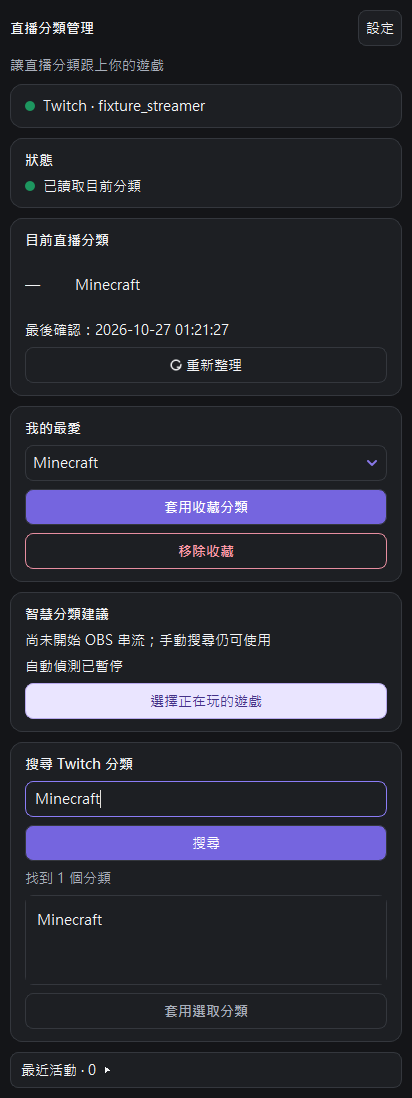
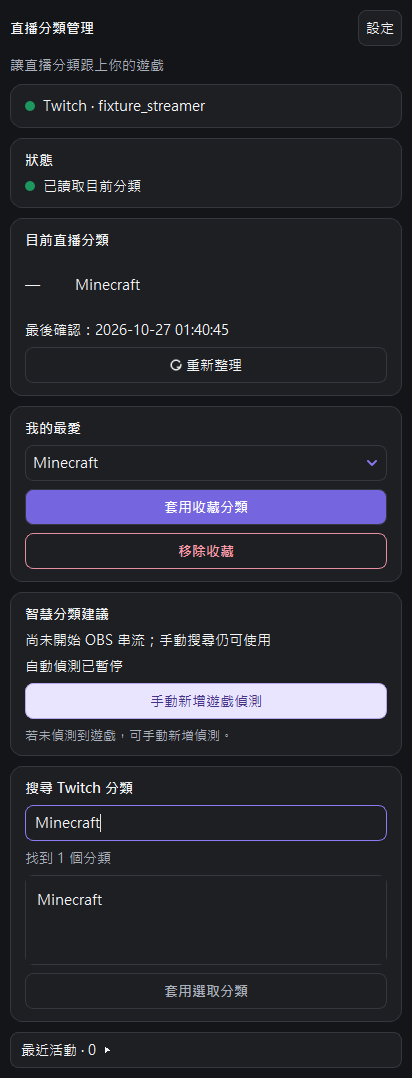
Simplify search and add explicit login and logout feedback for local 0.5.6

diff --git a/src/ui/dock.cpp b/src/ui/dock.cpp
@@ -111,8 +111,8 @@ static QString themeSheet(const Settings &config)
         "QSpinBox::up-button {subcontrol-position:top right;} QSpinBox::down-button {subcontrol-position:bottom right;}"
         "QSpinBox::up-arrow {image:url(:/tca/up.svg);width:10px;height:10px;} QSpinBox::down-arrow {image:url(:/tca/down.svg);width:10px;height:10px;}"
         "QPushButton:disabled {color:%8;} QPushButton[primary=true] {background:#7565DF;color:white;font-weight:600;}"
-        "QPushButton[primary=true]:disabled {background:%3;color:%8;} QPushButton[empty=true] {color:%8;}"
-        "QPushButton#categorySearchButton {font-weight:400;}"
+        "QPushButton[primary=true]:disabled {background:%3;color:%8;}"
+        "QLabel#manualDetectionHint {color:%8;font-size:%11px;}"
         "QPushButton[secondary=true] {background:#EAE5FF;color:#443287;border-color:#B8A9EE;}"
         "QPushButton[danger=true] {background:%3;color:%9;border-color:%10;font-weight:600;}"
         "QPushButton[secondary=true]:disabled,QPushButton[danger=true]:disabled {background:%3;color:%8;border-color:%4;}"
@@ -130,7 +130,7 @@ static QString themeSheet(const Settings &config)
         "QScrollBar:vertical {background:transparent;width:8px;margin:0;} QScrollBar::handle:vertical {background:%4;border-radius:4px;min-height:24px;}"
         "QScrollBar::add-line:vertical,QScrollBar::sub-line:vertical {height:0;} QScrollBar::add-page:vertical,QScrollBar::sub-page:vertical {background:transparent;}")
         .arg(text, bg, panel, edge).arg(config.fontSize).arg(family).arg(config.fontSize + 3).arg(dark ? "#A9AFBB" : "#606978")
-        .arg(dark ? "#FF9AA8" : "#A5233A").arg(dark ? "#E78EA0" : "#C87580");
+        .arg(dark ? "#FF9AA8" : "#A5233A").arg(dark ? "#E78EA0" : "#C87580").arg(std::max(12, config.fontSize - 1));
 }
 Dock::Dock(QString settingsDirectory, QWidget *parent, QNetworkAccessManager *transport)
     : QWidget(parent), directory(std::move(settingsDirectory)), settingsPath(QDir(directory).filePath("settings.json")), client(this, transport, !transport), updater(UpdateRepository, PluginVersion, this), images(this)
@@ -188,7 +188,6 @@ Dock::Dock(QString settingsDirectory, QWidget *parent, QNetworkAccessManager *tr
     });
     auto *search = card(layout, "搜尋 Twitch 分類"); search->parentWidget()->setObjectName("manualSearchCard"); searchInput = new QLineEdit; searchInput->setObjectName("categorySearchInput"); searchInput->setPlaceholderText("輸入遊戲或分類名稱…"); searchInput->setMaxLength(200);
     searchInput->setAccessibleName("搜尋遊戲或分類"); search->addWidget(searchInput);
-    searchButton = button("搜尋"); searchButton->setObjectName("categorySearchButton"); search->addWidget(searchButton);
     searchHint = label("連接 Twitch 後即可搜尋與更新分類"); searchHint->setProperty("role", "muted"); search->addWidget(searchHint);
     searchList = new QListWidget; searchList->setObjectName("searchResults"); searchList->setWordWrap(true); searchList->setFixedHeight(90); searchList->setIconSize(QSize(42, 56)); search->addWidget(searchList);
     applyButton = button("套用選取分類"); applyButton->setProperty("primary", true); search->addWidget(applyButton);
@@ -221,27 +220,27 @@ Dock::Dock(QString settingsDirectory, QWidget *parent, QNetworkAccessManager *tr
         }
         if (!client.connected() || (searching && searchQuery == searchInput->text().trimmed())) return;
         searchQuery = searchInput->text().trimmed(); searchCategories.clear(); searchList->clear(); cursor.clear(); moreButton->hide();
-        searching = true; updateSearch(); searchHint->setText("正在搜尋：" + searchQuery);
-        animate(searchButton); client.search(searchQuery);
+        searching = true; searchHint->setText("正在搜尋：" + searchQuery);
+        animate(searchHint); client.search(searchQuery);
     };
     connect(&searchTimer, &QTimer::timeout, this, doSearch);
-    connect(searchButton, &QPushButton::clicked, this, doSearch);
     connect(searchInput, &QLineEdit::returnPressed, this, doSearch);
     connect(searchInput, &QLineEdit::textChanged, this, [this] {
-        updateSearch(); searchTimer.stop();
+        searchTimer.stop();
         if (searchInput->text().trimmed().isEmpty()) {
             searching = false; searchQuery.clear(); searchCategories.clear(); searchList->clear(); cursor.clear(); moreButton->hide();
             updateAccount(); searchHint->setText("輸入遊戲或分類名稱…");
         } else if (client.connected()) searchTimer.start();
     });
-    connect(moreButton, &QPushButton::clicked, this, [this] { searching = true; updateSearch(); moreButton->setEnabled(false); client.search(searchQuery, cursor); });
+    connect(moreButton, &QPushButton::clicked, this, [this] { searching = true; moreButton->setEnabled(false); client.search(searchQuery, cursor); });
     connect(applyButton, &QPushButton::clicked, this, &Dock::applySelected);
     connect(searchList, &QListWidget::currentRowChanged, this, [this] { updateAccount(); });
     connect(mappingButton, &QPushButton::clicked, this, &Dock::pickGame);
     auto *suggestion = card(layout, "智慧分類建議"); suggestion->parentWidget()->setObjectName("suggestionCard"); suggestionLabel = label("尚無遊戲候選；可按「我的遊戲」新增並記住"); suggestion->addWidget(suggestionLabel);
-    unknownLabel = label("未辨識的視窗只作參考，不會被當成遊戲。可按下方按鈕選取遊戲。"); unknownLabel->setObjectName("unknownRecognitionStatus"); suggestion->addWidget(unknownLabel);
-    reviewUnknownButton = button("選擇正在玩的遊戲"); reviewUnknownButton->setObjectName("reviewUnknownGame"); reviewUnknownButton->setProperty("secondary", true); reviewUnknownButton->setEnabled(true); suggestion->addWidget(reviewUnknownButton);
+    unknownLabel = label("未辨識的視窗只作參考，不會被當成遊戲。"); unknownLabel->setObjectName("unknownRecognitionStatus"); suggestion->addWidget(unknownLabel);
+    reviewUnknownButton = button("手動新增遊戲偵測"); reviewUnknownButton->setObjectName("reviewUnknownGame"); reviewUnknownButton->setProperty("secondary", true); reviewUnknownButton->setEnabled(true); suggestion->addWidget(reviewUnknownButton);
     connect(reviewUnknownButton, &QPushButton::clicked, this, &Dock::pickGame);
+    auto *manualHint = label("若未偵測到遊戲，可手動新增偵測。"); manualHint->setObjectName("manualDetectionHint"); manualHint->setProperty("role", "muted"); suggestion->addWidget(manualHint);
     suggestionChoice = new QComboBox; suggestion->addWidget(suggestionChoice);
     suggestionApply = button("套用建議"); suggestion->addWidget(suggestionApply); connect(suggestionApply, &QPushButton::clicked, this, &Dock::applySuggestion);
     suggestionApply->setProperty("primary", true);
@@ -272,7 +271,7 @@ Dock::Dock(QString settingsDirectory, QWidget *parent, QNetworkAccessManager *tr
     connect(&client, &Client::accountChanged, this, [this] {
         lookupPending = false; lookupAttempted.clear();
         searchTimer.stop();
-        searchHint->setText(client.connected() ? "輸入名稱即可搜尋，也可按搜尋或 Enter" : "連接 Twitch 後即可搜尋與更新分類");
+        searchHint->setText(client.connected() ? "輸入名稱即可搜尋，也可按 Enter 立即查詢" : "連接 Twitch 後即可搜尋與更新分類");
     });
     connect(&client, &Client::accountChanged, this, &Dock::updateAccount);
     connect(&client, &Client::status, this, [this](const QString &text, Client::StatusLevel level) {
@@ -282,7 +281,7 @@ Dock::Dock(QString settingsDirectory, QWidget *parent, QNetworkAccessManager *tr
     connect(&client, &Client::activity, this, &Dock::addActivity);
     connect(&client, &Client::searchFinished, this, [this] {
         if (searching && !searchInput->text().trimmed().isEmpty()) searchHint->setText("搜尋已結束，請查看結果或上方狀態");
-        searching = false; updateSearch(); moreButton->setEnabled(true);
+        searching = false; moreButton->setEnabled(true);
     });
     connect(&client, &Client::results, this, [this](const QVector<Category> &list, const QString &next) {
         if (searchInput->text().trimmed().isEmpty() || searchInput->text().trimmed() != searchQuery) return;
@@ -327,15 +326,6 @@ void Dock::setStatus(const QString &message, Client::StatusLevel level)
     const QString meaning = level == Client::StatusLevel::Success ? "正常" : level == Client::StatusLevel::Error ? "錯誤" : level == Client::StatusLevel::Progress ? "處理中" : "需注意";
     indicator(statusIndicator, state, meaning + "：" + message);
     if (statusLabel->text() != message) { statusLabel->setText(message); animate(statusLabel); }
-}
-void Dock::updateSearch()
-{
-    const bool empty = searchInput->text().trimmed().isEmpty();
-    searchButton->setProperty("primary", !empty); searchButton->setProperty("empty", empty);
-    searchButton->setText(searching ? "搜尋中…" : "搜尋");
-    searchButton->setEnabled(client.connected() && !searching);
-    searchButton->setToolTip(empty ? "請先輸入遊戲或分類名稱" : "搜尋輸入的名稱（也可以按 Enter）");
-    searchButton->style()->unpolish(searchButton); searchButton->style()->polish(searchButton); searchButton->update();
 }
 void Dock::updateRefresh()
 {
@@ -403,7 +393,7 @@ void Dock::updateAccount()
     favoriteAdd->setVisible(selected >= 0 && selected < searchCategories.size());
     favoriteAdd->setEnabled(!saved);
     favoriteAdd->setText(saved ? "已加入我的最愛" : "加入我的最愛");
-    updateSearch(); updateRefresh();
+    updateRefresh();
     searchInput->setEnabled(client.connected());
     currentArt->setVisible(client.connected());
     searchList->setVisible(client.connected() && !searchCategories.isEmpty());
@@ -496,7 +486,7 @@ void Dock::updateUnknown(const Processes &processes)
         if (!known) pendingWindow = w;
     }
     reviewUnknownButton->setEnabled(true);
-    unknownLabel->setText(pendingWindow.executable.isEmpty() ? "開啟遊戲後按「選擇正在玩的遊戲」，確認一次即可記住。" : "未確認視窗（不影響聊天倒數）：" + pendingWindow.title.left(120));
+    unknownLabel->setText(pendingWindow.executable.isEmpty() ? "開啟遊戲後按「手動新增遊戲偵測」，確認一次即可記住。" : "未確認視窗（不影響聊天倒數）：" + pendingWindow.title.left(120));
 }
 bool Dock::rememberRecognition(const RecognitionRule &rule)
 {
@@ -541,7 +531,7 @@ void Dock::reviewUnknown()
     connect(search, &QPushButton::clicked, &dialog, [&] {
         if (!client.connected() || !config.consented()) { QMessageBox::information(&dialog, "搜尋", "請先完成同意並連接 Twitch；既有收藏可離線確認。"); return; }
         if (gameName->text().trimmed().isEmpty()) { gameName->setFocus(); return; }
-        searchQuery = gameName->text().trimmed(); searchInput->setText(searchQuery); searchTimer.stop(); searching = true; updateSearch(); search->setEnabled(false); lookupStatus->setText("正在向 Twitch 搜尋…"); client.search(searchQuery);
+        searchQuery = gameName->text().trimmed(); searchInput->setText(searchQuery); searchTimer.stop(); searching = true; search->setEnabled(false); lookupStatus->setText("正在向 Twitch 搜尋…"); client.search(searchQuery);
     });
     auto *advancedToggle = button("進階辨識資訊 ▸"); advancedToggle->setCheckable(true); layout->addWidget(advancedToggle);
     auto *advanced = new QWidget; auto *scope = new QVBoxLayout(advanced); layout->addWidget(advanced); advanced->hide(); connect(advancedToggle, &QPushButton::toggled, advanced, &QWidget::setVisible);
@@ -568,7 +558,7 @@ void Dock::reviewUnknown()
 void Dock::pickGame()
 {
     if (stopped) return;
-    QDialog dialog(this); dialog.setWindowTitle("選擇正在玩的遊戲"); dialog.resize(560, 420); dialog.setStyleSheet(themeSheet(config));
+    QDialog dialog(this); dialog.setWindowTitle("手動新增遊戲偵測"); dialog.resize(560, 420); dialog.setStyleSheet(themeSheet(config));
     auto *layout = new QVBoxLayout(&dialog); layout->addWidget(label("先開啟遊戲，再從視窗清單選取。只有你確認後才會記住，不需填寫程序名稱。"));
     auto *list = new QListWidget; list->setObjectName("gameWindows"); layout->addWidget(list);
     auto *status = label("正在讀取本機可見視窗…"); layout->addWidget(status);
@@ -825,11 +815,22 @@ void Dock::login()
     if (settingsReadError) { recoverSettings(); return; }
     if (!config.consented() && !confirmUpdatedDocuments()) return;
     if (effectiveClientId().isEmpty()) { setStatus("此測試版本尚未配置發行者登入服務，請使用已配置的發行版", Client::StatusLevel::Error); return; }
-    QDialog dialog(this); dialog.setStyleSheet(themeSheet(config)); dialog.setWindowTitle("連接 Twitch 帳號"); dialog.resize(460, 280);
+    QDialog dialog(this); dialog.setObjectName("twitchLoginDialog"); dialog.setStyleSheet(themeSheet(config)); dialog.setWindowTitle("連接 Twitch 帳號"); dialog.resize(460, 320);
     auto *layout = new QVBoxLayout(&dialog); auto *instructions = label("正在連接 Twitch…"); layout->addWidget(instructions);
     auto *progress = label("授權只在 Twitch 官方網站進行，密碼不會交給外掛。"); progress->setProperty("role", "muted"); layout->addWidget(progress);
     auto *open = button("開啟 Twitch 官方授權頁"); open->setEnabled(false); layout->addWidget(open);
     auto *cancel = button("取消／關閉"); layout->addWidget(cancel);
+    auto *success = new QFrame; success->setObjectName("loginSuccessPanel");
+    success->setStyleSheet("QFrame#loginSuccessPanel {border:1px solid #8B7CF6;border-radius:16px;background:qlineargradient(x1:0,y1:0,x2:1,y2:1,stop:0 rgba(117,101,223,45),stop:1 rgba(29,150,95,30));}");
+    auto *successLayout = new QVBoxLayout(success); successLayout->setContentsMargins(22, 22, 22, 22); successLayout->setSpacing(12);
+    auto *mark = label("✓"); mark->setAlignment(Qt::AlignCenter); mark->setFixedSize(64, 64);
+    mark->setStyleSheet("color:white;background:#1D965F;border-radius:32px;font-size:38px;font-weight:700;"); successLayout->addWidget(mark, 0, Qt::AlignHCenter);
+    auto *successTitle = label("Twitch 登入成功"); successTitle->setAlignment(Qt::AlignCenter); successTitle->setProperty("role", "title"); successLayout->addWidget(successTitle);
+    auto *successAccount = label({}); successAccount->setObjectName("loginSuccessAccount"); successAccount->setAlignment(Qt::AlignCenter); successLayout->addWidget(successAccount);
+    auto *successHint = label("授權網頁可以關閉。\n準備好後按下方按鈕，繼續使用分類助手。"); successHint->setAlignment(Qt::AlignCenter); successHint->setProperty("role", "muted"); successLayout->addWidget(successHint);
+    auto *continueButton = button("繼續，回到 OBS"); continueButton->setObjectName("loginContinue"); continueButton->setProperty("primary", true); successLayout->addWidget(continueButton);
+    layout->addWidget(success); success->hide();
+    connect(continueButton, &QPushButton::clicked, &dialog, &QDialog::accept);
     QUrl authorizeUrl;
     connect(open, &QPushButton::clicked, &dialog, [&] { if (!authorizeUrl.isEmpty()) QDesktopServices::openUrl(authorizeUrl); });
     connect(cancel, &QPushButton::clicked, &dialog, &QDialog::reject);
@@ -838,7 +839,22 @@ void Dock::login()
         progress->setText("若頁面要求驗證碼：" + code + QString(" · 約 %1 分鐘內有效").arg(seconds / 60));
         if (!QDesktopServices::openUrl(url)) instructions->setText("無法自動開啟瀏覽器，請按下方按鈕重試。");
     });
-    const auto account = connect(&client, &Client::accountChanged, &dialog, [&] { if (client.connected()) dialog.accept(); });
+    const auto account = connect(&client, &Client::accountChanged, &dialog, [&] {
+        if (!client.connected()) {
+            if (success->isVisible()) { success->hide(); dialog.setWindowTitle("連接 Twitch 帳號"); instructions->setText("連線已中斷，請關閉後重新登入。"); instructions->show(); cancel->show(); }
+            return;
+        }
+        if (success->isVisible()) return;
+        instructions->hide(); progress->hide(); open->hide(); cancel->hide();
+        successAccount->setText("已連接帳號：" + client.userName()); success->show(); dialog.setWindowTitle("登入成功 · Twitch");
+        continueButton->setDefault(true);
+        if (config.animations && QApplication::style()->styleHint(QStyle::SH_Widget_Animate)) {
+            auto *effect = new QGraphicsOpacityEffect(success); success->setGraphicsEffect(effect);
+            auto *fade = new QPropertyAnimation(effect, "opacity", effect); fade->setDuration(420); fade->setStartValue(0.0); fade->setEndValue(1.0); fade->setEasingCurve(QEasingCurve::OutCubic);
+            connect(fade, &QPropertyAnimation::finished, success, [success] { success->setGraphicsEffect(nullptr); }); fade->start();
+        }
+        showLoginSuccess();
+    });
     const auto status = connect(&client, &Client::status, &dialog, [&](const QString &s) { instructions->setText(s); });
     const auto finished = connect(&client, &Client::authorizationFinished, &dialog, [&] { open->setEnabled(false); });
     client.login(effectiveClientId()); const int result = dialog.exec();
@@ -866,7 +882,14 @@ void Dock::settingsDialog()
     };
     updateSummary(); connect(&client, &Client::accountChanged, &dialog, updateSummary);
     connect(changeAccount, &QPushButton::clicked, &dialog, [&] { openAccount = true; dialog.reject(); });
-    auto *logout = button("登出並嘗試撤銷授權"); logout->setProperty("danger", true); account->addWidget(logout); connect(logout, &QPushButton::clicked, &client, &Client::logout);
+    auto *logout = button("登出並嘗試撤銷授權"); logout->setObjectName("logoutTwitch"); logout->setProperty("danger", true); account->addWidget(logout);
+    auto *logoutFeedback = label({}); logoutFeedback->setObjectName("logoutFeedback"); account->addWidget(logoutFeedback); logoutFeedback->hide();
+    connect(&client, &Client::status, &dialog, [this, logout, logoutFeedback](const QString &message, Client::StatusLevel level) {
+        if (!logout->property("loggingOut").toBool()) return;
+        logout->setProperty("loggingOut", false); logout->setText(level == Client::StatusLevel::Error ? "重試登出" : "已登出"); logout->setEnabled(level == Client::StatusLevel::Error);
+        logoutFeedback->setText((level == Client::StatusLevel::Error ? "! " : "✓ ") + message); logoutFeedback->show(); animate(logoutFeedback);
+    });
+    connect(logout, &QPushButton::clicked, &dialog, [this, logout] { logout->setProperty("loggingOut", true); logout->setEnabled(false); client.logout(); });
     auto *detection = card(layout, "自動偵測與分類更新詢問");
     auto *autoDetect = new QCheckBox("啟用遊戲自動偵測"); autoDetect->setChecked(config.autoDetect); detection->addWidget(autoDetect);
     auto *libraries = new QCheckBox("辨識本機遊戲庫與支援的獨立遊戲"); libraries->setChecked(config.detectLibraries); detection->addWidget(libraries);

diff --git a/tests/ui-check.cpp b/tests/ui-check.cpp
@@ -35,7 +35,16 @@
 #include <QVBoxLayout>
 #include <QStyle>
 #include <QThread>
+#include <QDesktopServices>
 #include <cstring>
+
+class AuthorizationBrowserSink : public QObject {
+    Q_OBJECT
+public:
+    int opened = 0;
+public slots:
+    void open(const QUrl &url) { if (url.host() == "www.twitch.tv") ++opened; }
+};
 
 class UiReply : public QNetworkReply {
 public:
@@ -77,6 +86,7 @@ protected:
 namespace tca {
 struct DockTestAccess {
     static Client &twitch(Dock &dock) { return dock.client; }
+    static void login(Dock &dock) { dock.login(); }
     static QString prepareFixture(Dock &dock) {
         dock.config.clientId = "fixture123"; dock.config.termsVersion = dock.config.privacyVersion = DocumentVersion;
         dock.config.termsUtc = dock.config.privacyUtc = "2026-10-27T00:00:00Z";
@@ -85,6 +95,7 @@ struct DockTestAccess {
     static void lightTheme(Dock &dock) { dock.config.theme = 1; dock.theme(); }
     static void noAnimation(Dock &dock) { dock.config.animations = false; dock.theme(); }
     static bool refreshAnimating(Dock &dock) { return dock.refreshTimer.isActive(); }
+    static bool searching(Dock &dock) { return dock.searching; }
     static bool quietPrompt(Dock &dock, bool quiet, bool idle, const QString &path) {
         const bool previous = dock.config.quietMode; dock.config.quietMode = quiet;
         dock.notifySuggestion({idle ? "@idle" : "fixture.exe", idle ? "509658" : "42", idle ? "Just Chatting" : "Minecraft", 0});
@@ -224,26 +235,28 @@ static bool connectedUi(const QString &output)
     UI_CHECK(dock.findChild<QLabel *>("accountName")->text().contains("fixture_streamer"));
     UI_CHECK(dock.findChild<QPushButton *>("connectAccount")->isHidden());
     UI_CHECK(tca::DockTestAccess::pausedCopy(dock));
-    auto *input = dock.findChild<QLineEdit *>("categorySearchInput"); auto *search = dock.findChild<QPushButton *>("categorySearchButton");
-    UI_CHECK(input && search && search->isEnabled() && !search->property("primary").toBool());
-    input->setText("   "); search->click();
+    auto *input = dock.findChild<QLineEdit *>("categorySearchInput");
+    UI_CHECK(input && !dock.findChild<QPushButton *>("categorySearchButton"));
+    auto *manual = dock.findChild<QPushButton *>("reviewUnknownGame");
+    auto *hint = dock.findChild<QLabel *>("manualDetectionHint");
+    UI_CHECK(manual && manual->text() == "手動新增遊戲偵測" && hint && hint->text().contains("未偵測到遊戲"));
+    QKeyEvent enter(QEvent::KeyPress, Qt::Key_Return, Qt::NoModifier);
+    input->setText("   "); QApplication::sendEvent(input, &enter);
     UI_CHECK(network.searches == 0 && dock.findChild<QLabel *>("operationStatus")->text().contains("請先輸入"));
     input->setText("Minecraft");
-    UI_CHECK(network.searches == 0 && search->property("primary").toBool());
+    UI_CHECK(network.searches == 0);
     UI_CHECK(wait([&] { return network.searches == 1; }));
-    UI_CHECK(wait([&] { return search->isEnabled(); }));
-    search->click(); search->click();
-    UI_CHECK(network.searches == 2 && !search->isEnabled());
-    UI_CHECK(wait([&] { return search->isEnabled(); }));
-    QKeyEvent enter(QEvent::KeyPress, Qt::Key_Return, Qt::NoModifier); QApplication::sendEvent(input, &enter);
-    UI_CHECK(network.searches == 3); UI_CHECK(wait([&] { return search->isEnabled(); }));
-    settle(450); UI_CHECK(network.searches == 3);
-    input->setText("old request"); UI_CHECK(wait([&] { return network.searches == 4; }));
+    UI_CHECK(wait([&] { return !tca::DockTestAccess::searching(dock); }));
+    QApplication::sendEvent(input, &enter); QApplication::sendEvent(input, &enter);
+    UI_CHECK(network.searches == 2);
+    UI_CHECK(wait([&] { return !tca::DockTestAccess::searching(dock); }));
+    settle(450); UI_CHECK(network.searches == 2);
+    input->setText("old request"); UI_CHECK(wait([&] { return network.searches == 3; }));
     input->clear(); settle(300);
-    UI_CHECK(dock.findChild<QListWidget *>("searchResults")->count() == 0 && !search->property("primary").toBool());
-    input->setText("Minecraft"); search->click();
-    UI_CHECK(network.searches == 5); UI_CHECK(wait([&] { return search->isEnabled(); }));
-    settle(450); UI_CHECK(network.searches == 5);
+    UI_CHECK(dock.findChild<QListWidget *>("searchResults")->count() == 0);
+    input->setText("Minecraft"); QApplication::sendEvent(input, &enter);
+    UI_CHECK(network.searches == 4); UI_CHECK(wait([&] { return !tca::DockTestAccess::searching(dock); }));
+    settle(450); UI_CHECK(network.searches == 4);
     auto *refresh = dock.findChild<QPushButton *>("refreshCurrent"); UI_CHECK(refresh && refresh->isEnabled());
     const auto reads = network.reads; refresh->click(); refresh->click();
     UI_CHECK(network.reads == reads + 1 && refresh->property("refreshing").toBool() && !refresh->isEnabled());
@@ -292,6 +305,36 @@ static bool connectedUi(const QString &output)
     tca::DockTestAccess::lightTheme(dock); settle(160); UI_CHECK(tca::DockTestAccess::preview(dock, output + "/connected-light.png"));
     network.failRead = true; refresh->click(); UI_CHECK(wait([&] { return !client.readingCurrent(); }));
     UI_CHECK(statusLight->property("state") == "error" && !tca::DockTestAccess::refreshAnimating(dock));
+    bool logoutShown = false;
+    QTimer::singleShot(50, &dock, [&] {
+        auto *dialog = qobject_cast<QDialog *>(QApplication::activeModalWidget());
+        auto *logout = dialog ? dialog->findChild<QPushButton *>("logoutTwitch") : nullptr;
+        if (logout) {
+            logout->click(); auto *feedback = dialog->findChild<QLabel *>("logoutFeedback");
+            logoutShown = !client.connected() && feedback && feedback->isVisible() && feedback->text().contains("已登出") && logout->text() == "已登出";
+            settle(180); dialog->grab().save(output + "/logout-feedback.png");
+        }
+        if (dialog) dialog->reject();
+    });
+    settingsButton->click(); UI_CHECK(logoutShown);
+    network.failRead = false; AuthorizationBrowserSink browser;
+    QDesktopServices::setUrlHandler("https", &browser, "open");
+    bool successStayed = false; QTimer inspectLogin; inspectLogin.setInterval(30);
+    QObject::connect(&inspectLogin, &QTimer::timeout, &dock, [&] {
+        auto *dialog = qobject_cast<QDialog *>(QApplication::activeModalWidget());
+        auto *panel = dialog ? dialog->findChild<QWidget *>("loginSuccessPanel") : nullptr;
+        if (!panel || !panel->isVisible()) return;
+        inspectLogin.stop();
+        QTimer::singleShot(600, dialog, [&, dialog] {
+            auto *account = dialog->findChild<QLabel *>("loginSuccessAccount"); auto *next = dialog->findChild<QPushButton *>("loginContinue");
+            successStayed = dialog->isVisible() && client.connected() && account && account->text().contains("fixture_streamer") && next && next->isVisible();
+            if (!dialog->grab().save(output + "/login-success.png")) successStayed = false;
+            if (next) next->click(); else dialog->reject();
+        });
+    });
+    inspectLogin.start(); tca::DockTestAccess::login(dock); inspectLogin.stop(); QDesktopServices::unsetUrlHandler("https");
+    UI_CHECK(successStayed && browser.opened == 1);
+    UI_CHECK(wait([&] { return !client.readingCurrent(); }));
     tca::DockTestAccess::noAnimation(dock); network.failRead = false; refresh->click();
     UI_CHECK(client.readingCurrent() && !tca::DockTestAccess::refreshAnimating(dock));
     dock.stop(); UI_CHECK(!client.readingCurrent() && !tca::DockTestAccess::refreshAnimating(dock));
@@ -567,8 +610,10 @@ int main(int argc, char **argv)
         if (!connectedUi(output)) result = 80;
         app.exit(result);
     });
-    QTimer::singleShot(25000, &app, [&] { app.exit(10); });
+    QTimer::singleShot(40000, &app, [&] { app.exit(10); });
     const auto code = app.exec();
     std::printf("UI smoke result: %d; renders: %s\n", code, output.toUtf8().constData());
     return code;
 }
+
+#include "ui-check.moc"

diff --git a/src/ui/dock.hpp b/src/ui/dock.hpp
@@ -37,7 +37,6 @@ private:
     void about();
     void document(const QString &kind);
     void updateAccount();
-    void updateSearch();
     void updateRefresh();
     void addActivity(const QString &text);
     void scan();
@@ -78,7 +77,7 @@ private:
     bool lookupPending = false;
     int libraryCount = 0;
     QPushButton *favoriteAdd, *favoriteApply, *favoriteRemove;
-    QPushButton *connectButton, *searchButton, *applyButton, *moreButton, *suggestionApply, *resumeButton;
+    QPushButton *connectButton, *applyButton, *moreButton, *suggestionApply, *resumeButton;
     QPushButton *activityToggle, *mappingButton, *ignoreButton;
     QVector<Category> searchCategories;
     QVector<Candidate> detected;

diff --git a/README.md b/README.md
@@ -50,13 +50,13 @@
 
 按「連接 Twitch」，在開啟的 Twitch 官方網頁登入並授權；若網頁要求驗證碼，輸入面板顯示的代碼。外掛不會向你索取 Twitch 密碼。
 
-授權成功後，外掛會嘗試帶你回到 OBS。若視窗沒有切換，請自行點擊工作列的 OBS；Twitch 完成頁可以關閉。
+授權成功後，外掛會顯示勾選動畫與已連接的帳號，按「繼續，回到 OBS」才會關閉登入視窗。若視窗沒有切換，請自行點擊工作列的 OBS；Twitch 完成頁可以關閉。登出後，設定頁也會顯示完成提示。
 
 登入後，面板只顯示目前帳號名稱；若要更換帳號，請到「設定 → Twitch 帳號」。帳號旁的指示燈會顯示連線狀態，面板上方的狀態區則以綠色表示成功、黃色表示處理中或需注意、紅色表示錯誤，並附文字說明。
 
 ### 手動切換與我的最愛
 
-手動搜尋位於「智慧分類建議」下方。輸入遊戲或分類名稱後會自動搜尋，也可以按「搜尋」或 Enter 立即查詢。未輸入名稱時不會送出搜尋；按下按鈕會提示輸入名稱。選取結果後按「套用選取分類」。常用分類可按「加入我的最愛」，之後直接從收藏選擇與套用。不必開始直播也能手動修改 Twitch 分類。
+手動搜尋位於「智慧分類建議」下方。輸入遊戲或分類名稱後會自動搜尋，也可以按 Enter 立即查詢，不需要再按搜尋按鈕；空白輸入不會送出搜尋。選取結果後按「套用選取分類」。常用分類可按「加入我的最愛」，之後直接從收藏選擇與套用。不必開始直播也能手動修改 Twitch 分類。
 
 ### 讓外掛記住遊戲
 
@@ -65,6 +65,8 @@
 3. 下次偵測到該遊戲且分類不同時，外掛會提出切換建議。辨識不確定時先由你確認，不會直接猜測分類。
 
 「我的遊戲」一開始沒有資料是正常的。也可開啟遊戲名稱查詢，讓外掛嘗試向 Twitch 尋找分類；找不到或名稱不明確時，仍需要你確認一次。若一般程式被誤認為遊戲，可在「我的遊戲」標記「不是遊戲」。
+
+若未偵測到遊戲，可按面板上的「手動新增遊戲偵測」，選取遊戲視窗並記住對應分類。
 
 預設在 OBS 直播期間才提出遊戲建議，且每次先詢問。可在設定調整偵測時機、通知方式或開啟自動更新。手動切換分類後，自動更新會暫停，按「恢復自動分類」才繼續。
 

diff --git a/docs/data-processing.md b/docs/data-processing.md
@@ -1,8 +1,10 @@
-# 遊戲辨識與資料處理清單（0.5.5，2026-10-27）
+# 遊戲辨識與資料處理清單（0.5.6，2026-10-27）
 
 本文件記錄目前實作，供作者撰寫正式條款與隱私政策，並非法律審查。使用者文件為 [使用者條款](terms.md) 與 [隱私權政策](privacy.md)，版本 `2026-10-26-v5`。已完成首次設定者以獨立視窗確認文件更新，不重跑設定精靈。升級後首次儲存保留原檔備份；讀取失敗阻止寫入並提供還原。登入成功僅嘗試喚回 OBS／工作列提醒，不新增伺服器、瀏覽器控制或 OAuth 回呼端點。
 
-搜尋名稱在停止輸入約 400 毫秒後送至 Twitch，也可按搜尋／Enter 立即送出；空白輸入不發送請求。靜音模式只在本機保存通知偏好，分類提醒使用無系統提示音的視窗並閃爍 OBS 工作列，不增加外部資料傳送，也不改變系統或其他程式的音量。
+搜尋名稱在停止輸入約 400 毫秒後送至 Twitch，也可按 Enter 立即送出；沒有額外的分類搜尋按鈕，空白輸入不發送請求。靜音模式只在本機保存通知偏好，分類提醒使用無系統提示音的視窗並閃爍 OBS 工作列，不增加外部資料傳送，也不改變系統或其他程式的音量。
+
+登入成功畫面顯示既有 OAuth 驗證結果中的帳號名稱，等待使用者按繼續，不另外查詢頭像或新增保存資料。登出完成提示依本機憑證清除結果顯示；遠端授權撤銷仍依原有流程另外確認，不把本機登出視為遠端撤銷成功。
 
 ## 本機來源與保存
 
